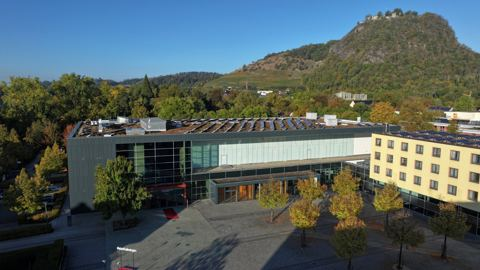
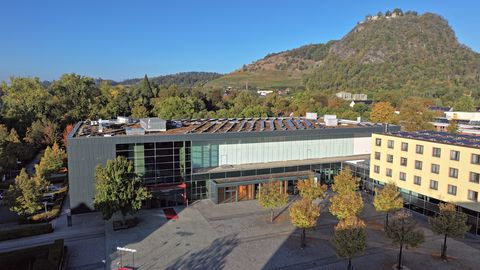
Startbild aus Drohnen-Original 0024 (5280 px), Corporate Grading
Claude-Session: https://claude.ai/code/session_017DCUVVSwL6zrwejPGRsefE

diff --git a/index.html b/index.html
@@ -293,7 +293,7 @@ button{font:inherit;color:inherit}
   </div>
 
   <section class="cover" id="cover">
-    <img class="cover-img" src="img/aussenansicht.jpg" alt="Die Stadthalle Singen von oben, im Hintergrund der Hohentwiel" width="2576" height="1449">
+    <img class="cover-img" src="img/aussenansicht.jpg" srcset="img/aussenansicht-1920.jpg 1920w, img/aussenansicht.jpg 3840w" sizes="100vw" alt="Die Stadthalle Singen von oben, im Hintergrund der Hohentwiel" width="3840" height="2160">
     <span class="draft-tag">Entwurf</span>
     <div class="cover-inner">
       <div class="banner anim">
